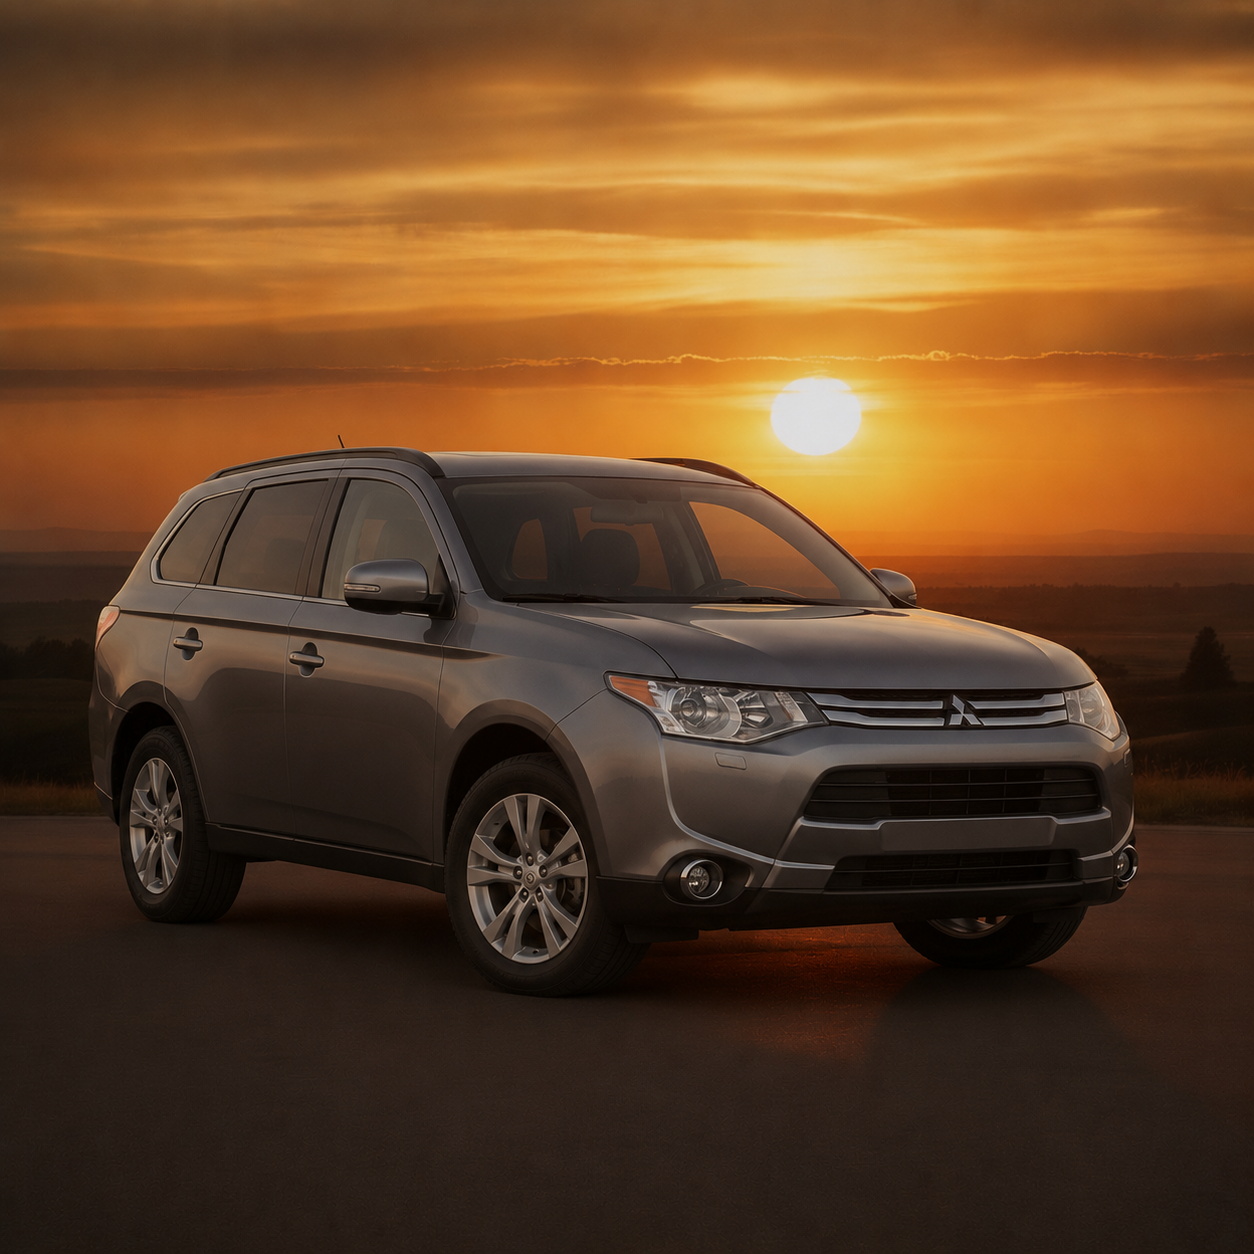
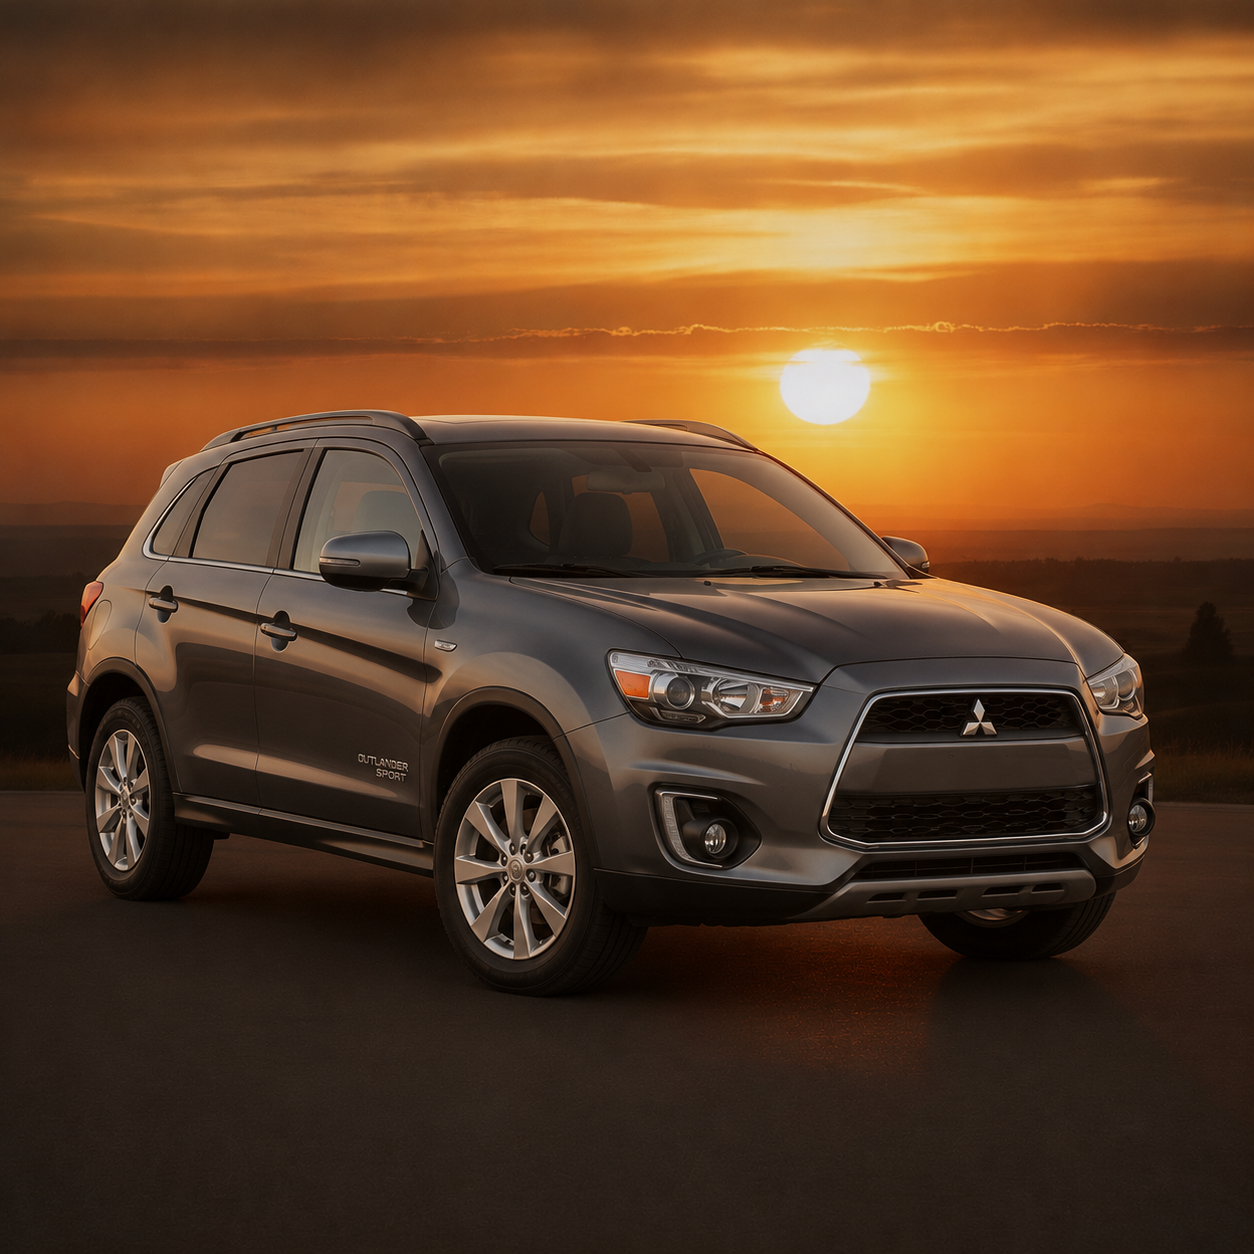
rename Mitsubishi Outlander to Outlander Sport and update photo

diff --git a/index.html b/index.html
@@ -189,7 +189,7 @@
         'car-sorento-feat-3': 'Ideal para viajes en grupo',
         'car-sorento-feat-4': 'Entrega en aeropuerto',
         'car-outlander-badge': 'SUV',
-        'car-outlander-name': 'Mitsubishi Outlander 2015',
+        'car-outlander-name': 'Mitsubishi Outlander Sport 2015',
         'car-outlander-feat-1': 'Espacio y comodidad',
         'car-outlander-feat-2': 'Sin depósito',
         'car-outlander-feat-3': 'Sin cargos ocultos',
@@ -349,7 +349,7 @@
         'car-sorento-feat-3': 'Ideal for group trips',
         'car-sorento-feat-4': 'Airport delivery',
         'car-outlander-badge': 'SUV',
-        'car-outlander-name': 'Mitsubishi Outlander 2015',
+        'car-outlander-name': 'Mitsubishi Outlander Sport 2015',
         'car-outlander-feat-1': 'Space and comfort',
         'car-outlander-feat-2': 'No deposit',
         'car-outlander-feat-3': 'No hidden fees',
@@ -1662,10 +1662,10 @@
           </div>
         </div>
         <div class="car-card">
-          <img class="car-img" src="outlander.png" alt="Mitsubishi Outlander 2015" loading="lazy" width="280" height="220">
+          <img class="car-img" src="outlander.png" alt="Mitsubishi Outlander Sport 2015" loading="lazy" width="280" height="220">
           <div class="car-card-body">
             <div class="badge" data-i18n="car-outlander-badge">SUV</div>
-            <h3 data-i18n="car-outlander-name">Mitsubishi Outlander 2015</h3>
+            <h3 data-i18n="car-outlander-name">Mitsubishi Outlander Sport 2015</h3>
             <ul class="car-card-features">
               <li><svg viewBox="0 0 24 24" fill="none" stroke="currentColor" stroke-width="2" stroke-linecap="round" stroke-linejoin="round"><polyline points="20 6 9 17 4 12"/></svg> <span data-i18n="car-outlander-feat-1">Space and comfort</span></li>
               <li><svg viewBox="0 0 24 24" fill="none" stroke="currentColor" stroke-width="2" stroke-linecap="round" stroke-linejoin="round"><polyline points="20 6 9 17 4 12"/></svg> <span data-i18n="car-outlander-feat-2">No deposit</span></li>
@@ -1819,10 +1819,10 @@
           </div>
         </div>
         <div class="car-card">
-          <img class="car-img" src="outlander.png" alt="Mitsubishi Outlander 2015" loading="lazy" width="280" height="220">
+          <img class="car-img" src="outlander.png" alt="Mitsubishi Outlander Sport 2015" loading="lazy" width="280" height="220">
           <div class="car-card-body">
             <div class="badge" data-i18n="car-outlander-badge">SUV</div>
-            <h3 data-i18n="car-outlander-name">Mitsubishi Outlander 2015</h3>
+            <h3 data-i18n="car-outlander-name">Mitsubishi Outlander Sport 2015</h3>
             <ul class="car-card-features">
               <li><svg viewBox="0 0 24 24" fill="none" stroke="currentColor" stroke-width="2" stroke-linecap="round" stroke-linejoin="round"><polyline points="20 6 9 17 4 12"/></svg> <span data-i18n="car-outlander-feat-1">Space and comfort</span></li>
               <li><svg viewBox="0 0 24 24" fill="none" stroke="currentColor" stroke-width="2" stroke-linecap="round" stroke-linejoin="round"><polyline points="20 6 9 17 4 12"/></svg> <span data-i18n="car-outlander-feat-2">No deposit</span></li>
@@ -2523,7 +2523,7 @@
     const fleet = [
       { name: 'Jeep Grand Cherokee 2021', price: 55 },
       { name: 'Kia Sorento 2019', price: 60 },
-      { name: 'Mitsubishi Outlander 2015', price: 40 },
+      { name: 'Mitsubishi Outlander Sport 2015', price: 40 },
       { name: 'Nissan Rogue 2018', price: 35 },
       { name: 'Kia Forte GT K3 2020', price: 40 },
       { name: 'Kia Forte EX 2019', price: 40 },